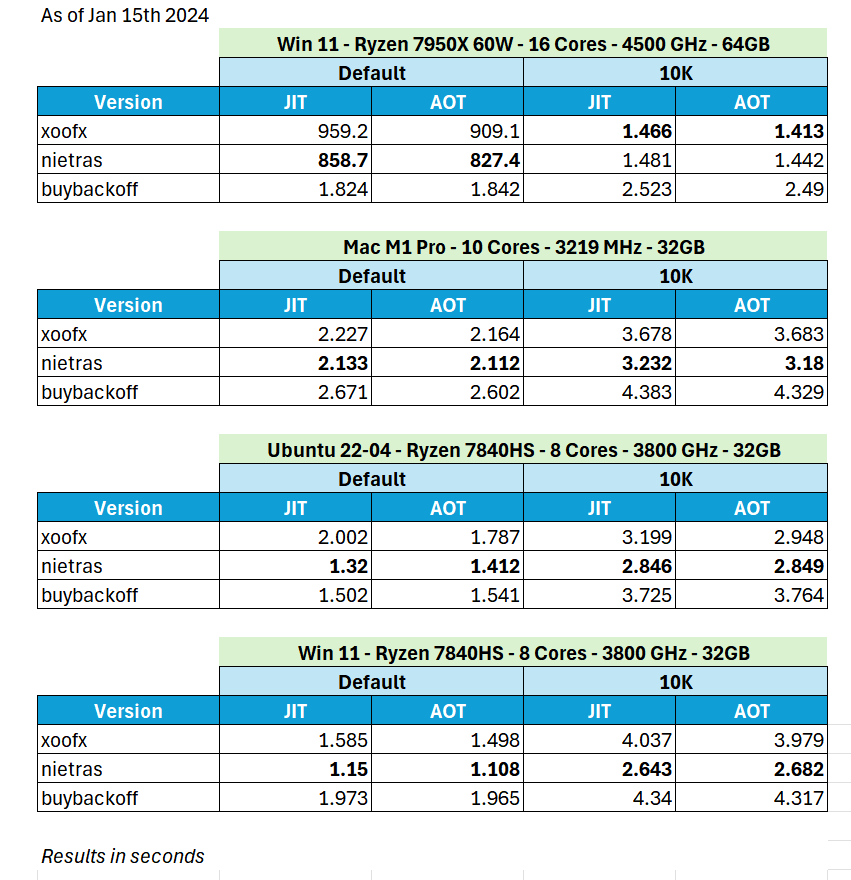
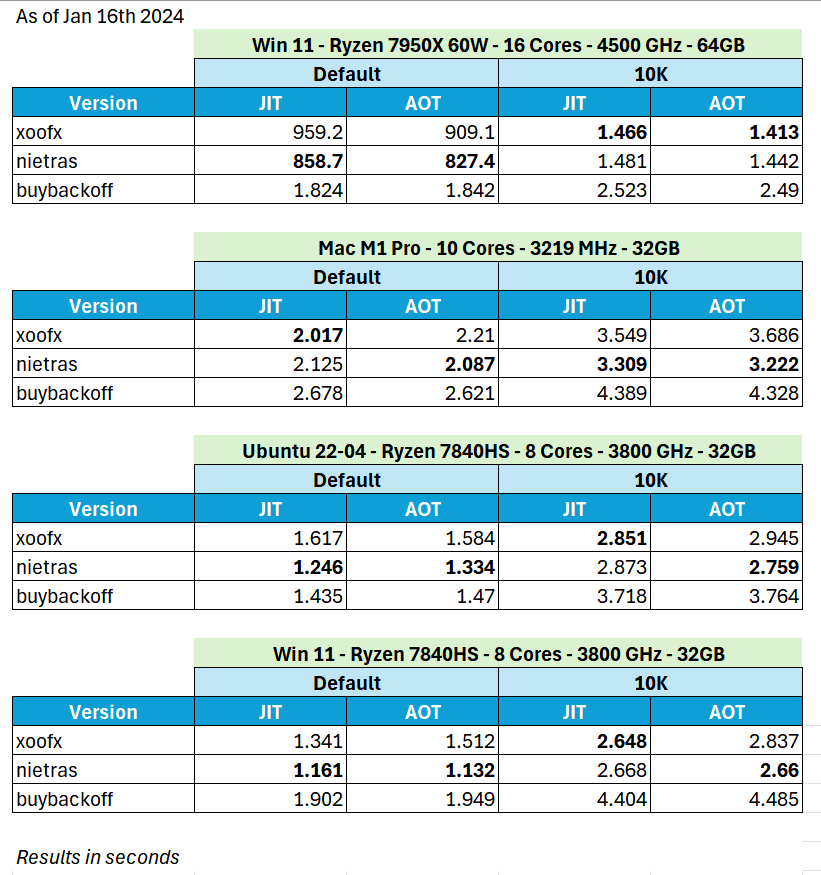
Update readme and results with latest final version

diff --git a/readme.md b/readme.md
@@ -5,7 +5,7 @@
 
 Aggregated results for C#/F# at https://github.com/praeclarum/1brc
 
-**Fast1BRC** might be one of the fastest (if not the fastest! 😅) implementation in the wild west. 🚀
+**Fast1BRC** is one of the fastest 😅 implementation in the .NET wild west. 🚀
 
 ## Techniques used
 
@@ -15,6 +15,11 @@ Aggregated results for C#/F# at https://github.com/praeclarum/1brc
 - FNV-1A 64 bit hashing of the city names aligned on 8 bytes boundary, seems that it is not authorized from official rules, but I found it quite solid
   - It is using a vectorized version with `Vector128` which is able to hash a name in just a few SIMD instructions 
 - No particular tricks for parsing the temperature, apart assuming that there is only 1 digit after the `.`
+- Custom Dictionary to improve the performance (more inlining of Equals/GetHashCode instead of going through a indirect delegate call)
+
+> Warning
+>
+> This version is using a 64 bit hash for the name. But it seems that this technique is not authorized as per the rules as explained [here](https://github.com/gunnarmorling/1brc/pull/186#issuecomment-1880132600). When I started, I didn't know about this rule, but also, I don't agree with it. We are not hashing random data and if you take all the words in the world that we are aware of and put them through a 64 bit hash, I doubt that there will be a single collision. Happy to be proven wrong though. 😊
 
 ## Results
 
